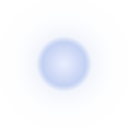
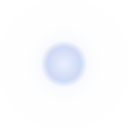
Fix sky: clouds tint by day (no night white-out / fake moons), tighter sun/moon halo, constant angular disc size; add time-of-day test hook

Changed region(s): [[0.2812, 0.2812, 0.7188, 0.7188]]

diff --git a/xors3d-php/src/Controllers/MinecraftController.php b/xors3d-php/src/Controllers/MinecraftController.php
@@ -136,8 +136,11 @@ final class MinecraftController extends Controller
     private int $sunDisc = 0;
     private int $moonDisc = 0;
     private int $moon = 0;   // night directional light
+    private float $dayF = 1.0; // 0 night .. 1 noon (for tinting sky objects)
     /** @var array<int,array<string,mixed>> drifting cloud slabs */
     private array $clouds = [];
+    /** @var int[] all cloud puff sprite handles (for day/night tinting) */
+    private array $cloudPuffs = [];
     /** @var array<int,int> hotbar type id => 2D icon image handle */
     private array $icon = [];
     /** @var array<string,int> mob part textures */
@@ -322,6 +325,7 @@ final class MinecraftController extends Controller
                 $e->xScaleSprite($sp, $size * self::BLOCK, $size * self::BLOCK);
                 $e->xEntityParent($sp, $pivot);
                 $e->xPositionEntity($sp, $ox * self::BLOCK, $oy * self::BLOCK, $oz * self::BLOCK, 0);
+                $this->cloudPuffs[] = $sp;
             }
             $this->clouds[] = [
                 'pivot' => $pivot,
@@ -342,6 +346,10 @@ final class MinecraftController extends Controller
         $cyp = $e->xEntityY($this->camH, 1);
         $czp = $e->xEntityZ($this->camH, 1);
 
+        // constant on-screen size regardless of render distance (angular size)
+        $e->xScaleSprite($this->sunDisc, $d * 0.095, $d * 0.095);
+        $e->xScaleSprite($this->moonDisc, $d * 0.075, $d * 0.075);
+
         // sun sits opposite the sun-light ray direction
         $e->xTFormVector(0, 0, 1, $this->sun, 0);
         $fx = $e->xTFormedX(); $fy = $e->xTFormedY(); $fz = $e->xTFormedZ();
@@ -353,6 +361,12 @@ final class MinecraftController extends Controller
         $mx = $e->xTFormedX(); $my = $e->xTFormedY(); $mz = $e->xTFormedZ();
         $e->xPositionEntity($this->moonDisc, $cxp - $mx * $d, $cyp - $my * $d, $czp - $mz * $d);
         (-$my > -0.05) ? $e->xShowEntity($this->moonDisc) : $e->xHideEntity($this->moonDisc);
+
+        // clouds: tint by time of day so they aren't glaring white at night
+        $v = (int) (85 + $this->dayF * 170);
+        foreach ($this->cloudPuffs as $sp) {
+            $e->xEntityColor($sp, $v, $v, min(255, $v + 8));
+        }
 
         $lo = -30 * self::BLOCK; $hi = ($this->wsize + 30) * self::BLOCK;
         foreach ($this->clouds as &$c) {
@@ -368,6 +382,7 @@ final class MinecraftController extends Controller
         $e = $this->e;
 
         if (!(int) $this->settings['daynight']) {
+            $this->dayF = 1.0;
             $e->xCameraClsColor($this->camH, 140, 190, 235);
             $e->xCameraFogColor($this->camH, 140, 190, 235);
             $e->xRotateEntity($this->sun, 50, 30, 0);
@@ -377,12 +392,15 @@ final class MinecraftController extends Controller
             return;
         }
 
-        $ang = fmod($e->xMillisecs() / 120000.0, 1.0) * 360.0;
+        $t = getenv('CRAFT_TIME');
+        $frac = ($t !== false) ? (float) $t : fmod($e->xMillisecs() / 120000.0, 1.0);
+        $ang = $frac * 360.0;
         $e->xRotateEntity($this->sun, $ang, 30, 0);
         $e->xRotateEntity($this->moon, $ang + 180.0, 30, 0); // opposite the sun
 
         $day   = max(0.0, sin(deg2rad($ang)));   // 1 at noon, 0 at night
         $night = max(0.0, -sin(deg2rad($ang)));  // 1 at midnight, 0 at day
+        $this->dayF = $day;
 
         // sun bright by day, moon dim-blue by night
         $e->xLightColor($this->sun, (int) (255 * $day), (int) (250 * $day), (int) (235 * $day));

diff --git a/xors3d-php/bin/gen_sky.php b/xors3d-php/bin/gen_sky.php
@@ -63,8 +63,9 @@ function radial(string $path, float $coreR, float $glowPow,
 }
 
 puff("$dir/puff.png");
-radial("$dir/sun.png",  0.42, 2.6, 255, 252, 230, 255, 150, 45);
-radial("$dir/moon.png", 0.40, 3.2, 235, 240, 255, 120, 150, 220);
+// tighter halo so the disc reads as a ball and does not wash out the screen
+radial("$dir/sun.png",  0.34, 4.5, 255, 250, 225, 255, 150, 45);
+radial("$dir/moon.png", 0.32, 5.0, 235, 240, 255, 130, 155, 220);
 
 echo "Generated sky textures in $dir\n";
 foreach (['puff', 'sun', 'moon'] as $f) {
